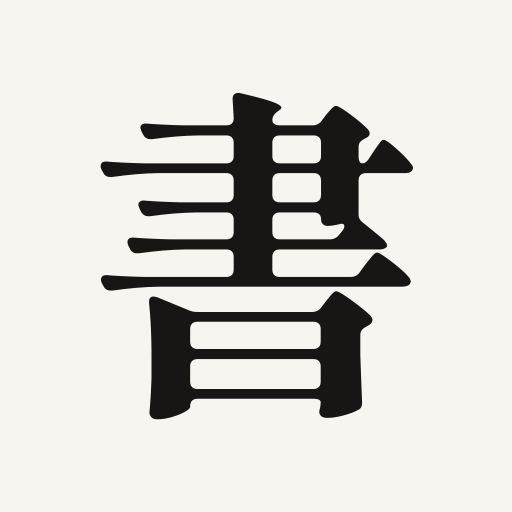
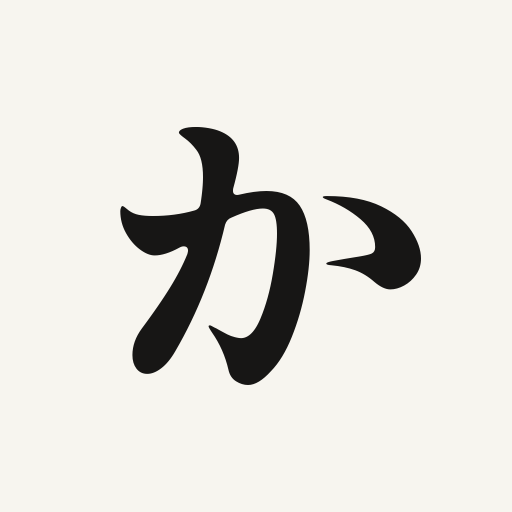
名前を「かきくらべ」に変更、アイコンを「か」に
Claude-Session: https://claude.ai/code/session_013fwufYyVxKvPriHoWaqj1i

Changed region(s): [[0.1875, 0.1875, 0.8438, 0.8438]]

diff --git a/index.html b/index.html
@@ -3,13 +3,13 @@
 <head>
 <meta charset="utf-8">
 <meta name="viewport" content="width=device-width,initial-scale=1">
-<title>書体見本帳</title>
+<title>かきくらべ</title>
 <link rel="icon" href="icon-32.png">
 <link rel="apple-touch-icon" href="apple-touch-icon.png">
 <link rel="manifest" href="manifest.webmanifest">
 <meta name="apple-mobile-web-app-capable" content="yes">
 <meta name="mobile-web-app-capable" content="yes">
-<meta name="apple-mobile-web-app-title" content="書体見本帳">
+<meta name="apple-mobile-web-app-title" content="かきくらべ">
 <meta name="theme-color" content="#f7f5ef">
 <link rel="preconnect" href="https://fonts.googleapis.com">
 <link rel="preconnect" href="https://fonts.gstatic.com" crossorigin>
@@ -143,7 +143,7 @@ dialog textarea{width:100%;height:160px;font-size:13px;font-family:ui-monospace,
 <body>
 <header>
   <div class="hrow">
-    <h1>書体見本帳</h1>
+    <h1>かきくらべ</h1>
     <button class="btn gear" id="panelBtn" aria-expanded="true" aria-controls="panel" aria-label="設定と絞り込み" title="設定と絞り込み"><svg viewBox="0 0 24 24" width="22" height="22" aria-hidden="true"><path d="M19.49,9.82 L22.07,10.40 L22.07,13.60 L19.49,14.18 L18.84,15.76 L20.25,18.00 L18.00,20.25 L15.76,18.84 L14.18,19.49 L13.60,22.07 L10.40,22.07 L9.82,19.49 L8.24,18.84 L6.00,20.25 L3.75,18.00 L5.16,15.76 L4.51,14.18 L1.93,13.60 L1.93,10.40 L4.51,9.82 L5.16,8.24 L3.75,6.00 L6.00,3.75 L8.24,5.16 L9.82,4.51 L10.40,1.93 L13.60,1.93 L14.18,4.51 L15.76,5.16 L18.00,3.75 L20.25,6.00 L18.84,8.24Z" fill="none" stroke="currentColor" stroke-width="1.7" stroke-linejoin="round"/><circle cx="12" cy="12" r="3.3" fill="none" stroke="currentColor" stroke-width="1.7"/></svg></button>
   </div>
   <div class="row">
@@ -203,7 +203,7 @@ dialog textarea{width:100%;height:160px;font-size:13px;font-family:ui-monospace,
       <li><a href="https://fontbear.net/">FONT BEAR</a> — 商用利用できるフリーフォントだけを集めた検索サイト</li>
       <li><a href="https://forest.watch.impress.co.jp/library/nav/genre/home/postcard_font.html">窓の杜 フォントライブラリ</a> — 手書き・明朝・マンガ向けなどの配布フォントを紹介</li>
       <li><a href="https://www.ne.jp/asahi/krk/kct/font/script.htm">フォントの館（手書きの間）</a> — 手書き系フォントを利用条件つきで一覧にした個人サイト</li>
-      <li><a href="https://googlefonts.github.io/japanese">Google Fonts + 日本語</a> — この見本帳に最初から入っている書体の配布元</li>
+      <li><a href="https://googlefonts.github.io/japanese">Google Fonts + 日本語</a> — かきくらべに最初から入っている書体の配布元</li>
     </ul>
     <p><b>おすすめのフリーフォント</b>（配布元でダウンロード →「＋フォントを追加」）</p>
     <ul>
@@ -215,7 +215,7 @@ dialog textarea{width:100%;height:160px;font-size:13px;font-family:ui-monospace,
       <li><a href="https://www.ne.jp/asahi/krk/kct/font/script.htm">851手書き雑フォント</a> — 雑に書いた手書き風。商用可・改造再配布自由（掲載ページから配布元へ）</li>
       <li><a href="https://github.com/saltcandy123/saltcandy123font">saltcandy123font</a> — 個人の手書きをフォント化したもの（漢字は一部のみ）</li>
     </ul>
-    <p>PixelMplus（ドット）は配布条件が再配布自由のため、この見本帳に同梱しています。</p>
+    <p>PixelMplus（ドット）は配布条件が再配布自由のため、かきくらべに同梱しています。</p>
   </details>
 </main>
 <dialog id="infoDlg"><div id="infoBody"></div><div class="row" style="margin-top:12px"><button class="btn" id="iClose">閉じる</button></div></dialog>
@@ -413,7 +413,7 @@ $('#file').addEventListener('change',async e=>{let n=0;for(const file of e.targe
 function exportData(){return JSON.stringify({app:'shotai-mihoncho',v:1,fav:[...S.fav],over:[...S.over],combos:S.combos},null,1)}
 function importData(txt){let d;try{d=JSON.parse(txt)}catch(e){toast('読み込めませんでした（形式が違います）');return}
   const arr=x=>Array.isArray(x)?x.filter(v=>typeof v==='string'):[];
-  if(!d||d.app!=='shotai-mihoncho'){toast('この見本帳のデータではありません');return}
+  if(!d||d.app!=='shotai-mihoncho'){toast('かきくらべのデータではありません');return}
   arr(d.fav).forEach(x=>S.fav.add(x));arr(d.pin).forEach(x=>S.fav.add(x));S.over=new Set(arr(d.over));
   if(Array.isArray(d.combos))for(const c of d.combos)if(Array.isArray(c)&&c.length===2&&c.every(v=>typeof v==='string')&&!S.combos.some(x=>x[0]===c[0]&&x[1]===c[1]))S.combos.push(c);
   buildCombos();save();render();$('#dataDlg').close();toast('読み込みました')}

diff --git a/README.md b/README.md
@@ -1,4 +1,4 @@
-# 書体見本帳
+# かきくらべ
 
 日本語フォントを一覧で見比べるための、1枚で動くWebページです。iPadのブラウザでの利用を想定しています。
 
